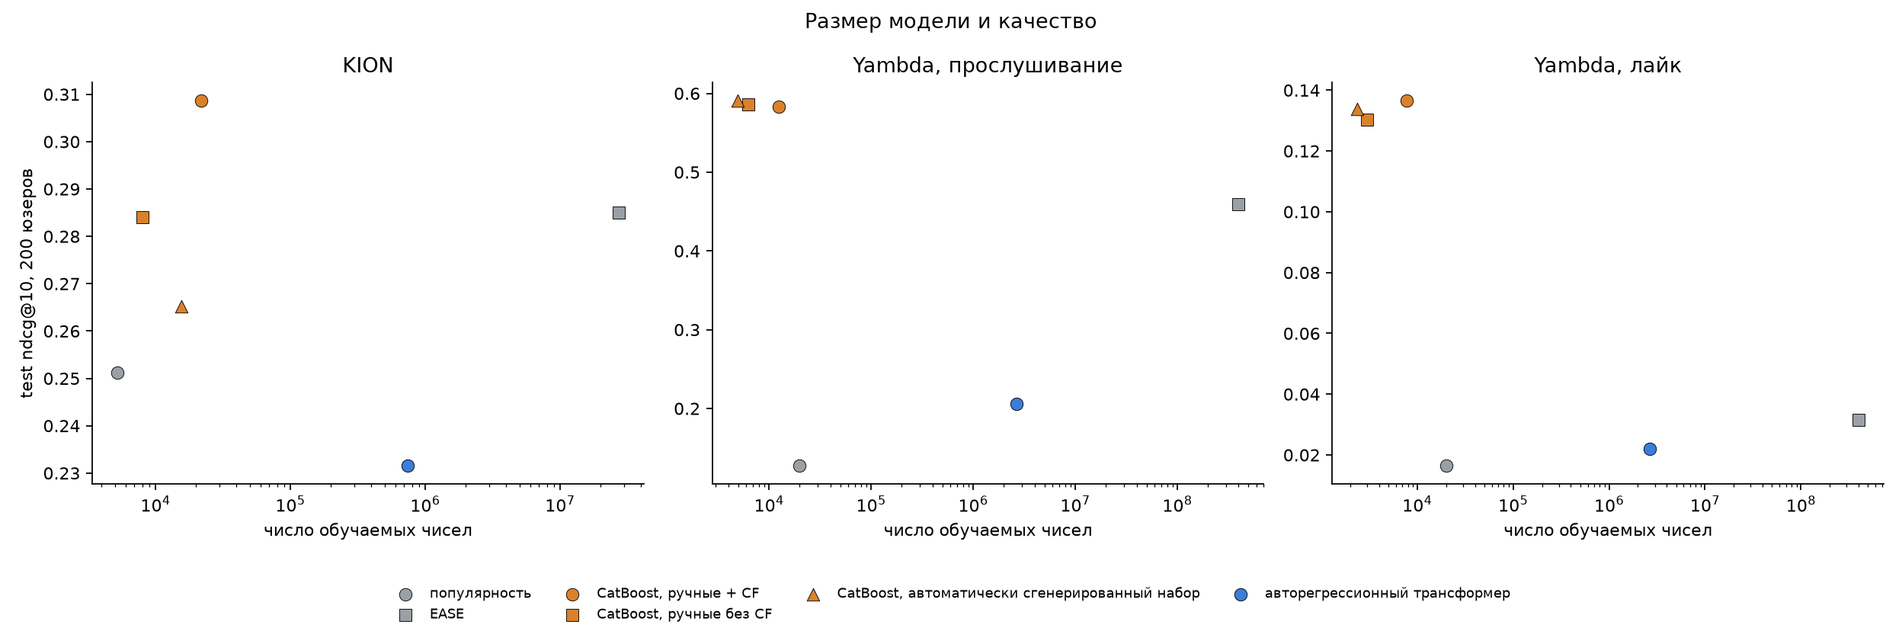
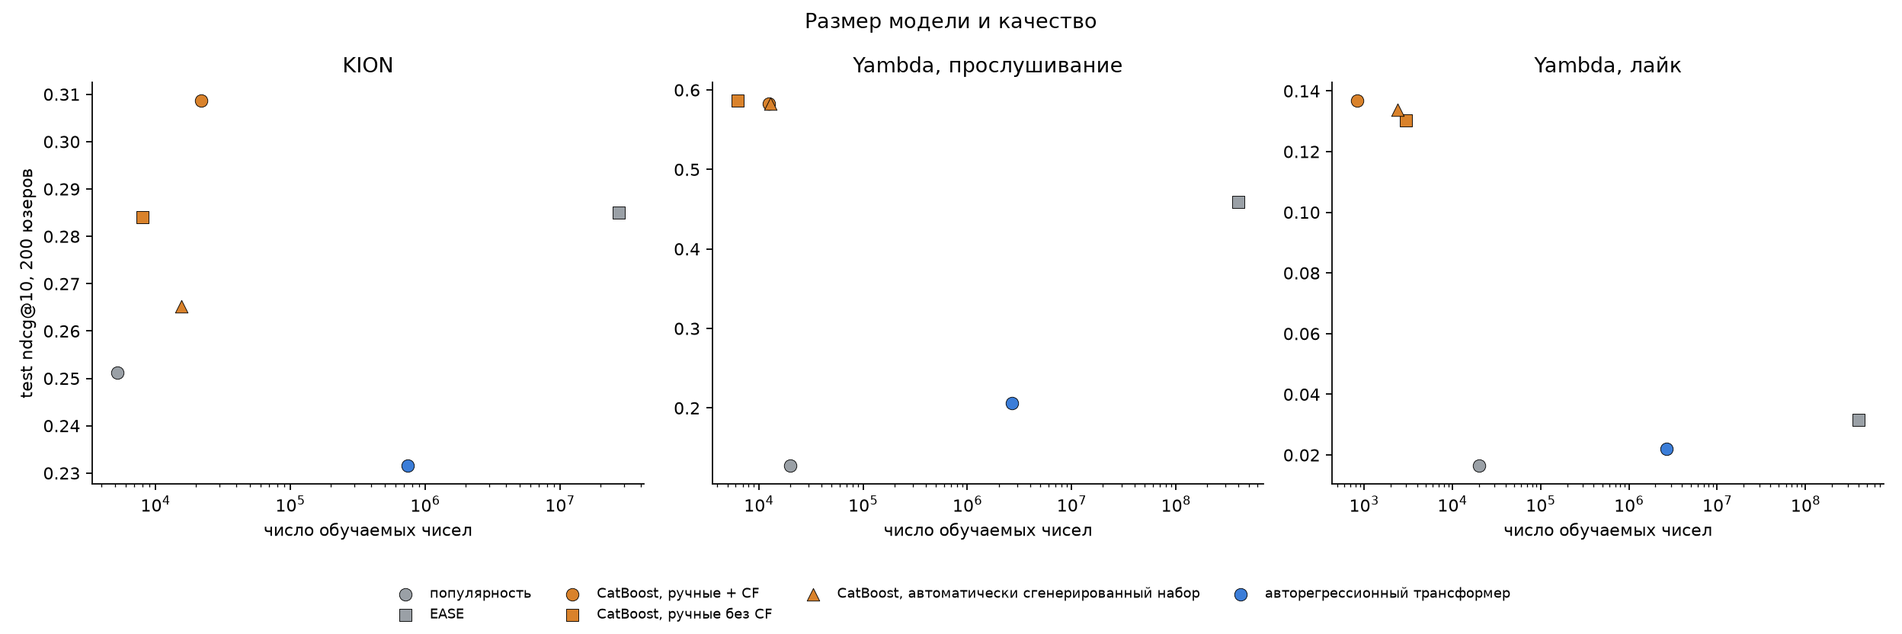
Report: results and conclusions in the author's voice, Yambda trees in the new schema

diff --git a/report.md b/report.md
@@ -21,12 +21,12 @@
 
 Третий бейзлайн – CatBoost на ручных признаках, стандартная сильная модель для табличных данных. Добавил базовые ручные признаки – атрибуты пользователя и фильма плюс счётчики за 7 дней, 30 дней и всё время: число событий и досмотров, средний процент досмотра, число разных товаров или пользователей и давность последнего события. Эти счётчики я считаю отдельно для пользователя, для фильма по всем пользователям и для пары. К ним я добавил скоры EASE и косинусного kNN по товарам, и попробовал именно ранжирующий лосс YetiRank.
 
-Чтобы понять, откуда у бустинга качество, я обучил его ещё в двух вариантах. В первом нет скоров EASE и kNN. Во втором остались только признаки из истории самого пользователя, то есть без счётчиков фильма по всем пользователям. Второй вариант ближе всего к тому, что видит нейросеть над историей одного пользователя, и сравнение с ним показывает, сколько дают данные других пользователей.
+Чтобы понять, откуда у бустинга качество, я обучил его ещё в двух вариантах. В первом нет скоров EASE и kNN. Во втором вместо ручных признаков стоит автоматически сгенерированный набор: перебор агрегатов «сущность × событие × окно × агрегат», 489 колонок. По нему видно, можно ли заменить ручную работу перебором.
 
-Потом я попробовал нейросети над историей пользователя: нелинейный автоэнкодер над вектором просмотренных фильмов, среднее по событиям, LSTM и трансформер. Голова у всех одна: сеть умножает вектор пользователя на эмбеддинг фильма и прибавляет обучаемое число на каждый фильм. Все четыре сети проиграли бустингу (рис. 1). LSTM и трансформер не лучше простого среднего по событиям, а трансформер ещё и переобучается: лосс на обучении у него падает дальше, а ndcg@10 на валидации после нескольких эпох падает (рис. 2, 3). Отсюда вопрос, почему так вышло.
+Потом я попробовал нейросети. Первая – авторегрессионный трансформер над последними событиями пользователя, как SASRec: кроме метки окна он учится предсказывать следующий фильм в истории. Скор у него – вектор пользователя, умноженный на эмбеддинг фильма, плюс обучаемое число на каждый фильм. Вторая – TabM [Gorishniy et al., 2025](https://arxiv.org/abs/2410.24210), ансамбль MLP для таблиц, на тех же строках и признаках, что и бустинг. Трансформер проиграл даже популярности, а на валидации он лучше всего на второй эпохе и дальше переобучается (рис. 1, 2). Отсюда вопрос, почему так вышло.
 ## Почему глубокие модели проигрывают ручным признакам
 ### Нужных данных нет в строке
-Первую часть ответа дал вариант бустинга только с историей самого пользователя: он упал ниже популярности (рис. 1). Перемешивание колонок показывает то же самое: почти вся польза сидит в счётчиках фильма по всем пользователям, особенно за последнюю неделю (рис. 4).
+Первую часть ответа дал трансформер, который видит только историю самого пользователя: он упал ниже популярности (рис. 1). Перемешивание колонок бустинга показывает то же самое: почти вся польза сидит в счётчиках фильма по всем пользователям, особенно за последнюю неделю (рис. 4).
 
 По итогу первая причина в том, что нужных данных нет в строке. «Сколько раз пользователь покупал фрукты за 7 дней до момента предсказания» – это свойство не строки, а всей таблицы до этого момента. Счётчик точно считает все события пользователя, включая те, что как строки в обучающую выборку не попадают. Если нейросеть тоже видит историю, как последовательные модели [Zhai et al., 2024](https://arxiv.org/abs/2402.17152), такие вещи она действительно учит. Но популярность товара за последний час – это сумма по всем пользователям, и из истории одного пользователя её не получить никакой моделью.
 
@@ -47,7 +47,7 @@
 
 Агрегаты пулинг даёт готовыми, умножение даёт кросс-слой или гейт, а ступеньки среди стандартных элементов архитектуры нет, и градиентом она учится хуже всего. Поэтому step-функцию можно перенести из параметра во вход. В [Gorishniy et al., 2022](https://arxiv.org/abs/2203.05556) для этого использовали бакетирование: дерево находит границы корзин, а сеть учит вес при каждой корзине, и производная по этому весу никогда не бывает плоской. Таким образом предобработкой данных, автоматической или даже выученной, можно заставить нейросеть работать с такими данными. Если порог всё же нужен внутри сети, вперёд можно считать честную ступеньку, а назад делать вид, что её производная равна единице [Bengio et al., 2013](https://arxiv.org/abs/1308.3432).
 ### Почему не перебрать агрегаты
-Тогда можно подумать, что пространство действий в задаче создания агрегаций не такое уж и большое. У нас есть дискретные, недифференцируемые операции, которые мы можем просто создавать вручную, и модели, нечувствительные к мусорным признакам и к мультиколлинеарности, чтобы всё это моделировать. Такие попытки тоже были: перебор агрегатов по связанным таблицам [Kanter and Veeramachaneni, 2015](https://doi.org/10.1109/DSAA.2015.7344858), отбор признаков по приросту на остатках бустинга [Zhang et al., 2023](https://arxiv.org/abs/2211.12507), а недавно такие же агрегаты стали подавать в табличные модели без обучения [Zhang et al., 2026](https://arxiv.org/abs/2602.18495), [Hayler et al., 2026](https://arxiv.org/abs/2608.16319). На данных мне данных перебор по комбинациям «сущность × событие × окно × агрегат» с таким отбором оставил лишь несколько признаков из нескольких сотен кандидатов, и CatBoost с ними на валидации идёт лишь немного выше, чем без них (рис. 2).
+Тогда можно подумать, что пространство действий в задаче создания агрегаций не такое уж и большое. У нас есть дискретные, недифференцируемые операции, которые мы можем просто создавать вручную, и модели, нечувствительные к мусорным признакам и к мультиколлинеарности, чтобы всё это моделировать. Такие попытки тоже были: перебор агрегатов по связанным таблицам [Kanter and Veeramachaneni, 2015](https://doi.org/10.1109/DSAA.2015.7344858), отбор признаков по приросту на остатках бустинга [Zhang et al., 2023](https://arxiv.org/abs/2211.12507), а недавно такие же агрегаты стали подавать в табличные модели без обучения [Zhang et al., 2026](https://arxiv.org/abs/2602.18495), [Hayler et al., 2026](https://arxiv.org/abs/2608.16319). Я сделал такой перебор по комбинациям «сущность × событие × окно × агрегат», он дал 489 признаков. CatBoost на них на KION хуже, чем на 71 ручном признаке, а на Yambda такой же (рис. 1, 5, 6).
 
 Но моделей, которые нечувствительны одновременно и к мусорным признакам, и к мультиколлинеарности, нет. Тем более если они нечувствительны к мусорным признакам, то это не глубокие модели, значит, они не могут учить распределения, которые нам нужны.
 
@@ -85,7 +85,7 @@
 ## Предобучение на синтетике
 И самое главное, модели можно предобучать на синтетических данных, чтобы научить их работать с композитными задачами, где нужно неявно учить разные распределения и выражать разные операции. Action space всех операций не такой уж и большой, поэтому табличные значения можно создавать синтетически не очень сложными методами. Предобученные так модели получают нужные прайоры для дообучения под конкретную задачу или для работы с любыми табличными данными. На этом были построены TabPFN [Hollmann et al., 2025](https://doi.org/10.1038/s41586-024-08328-6), TabICL [Qu et al., 2025](https://arxiv.org/abs/2502.05564) и, для реляционных баз, PluRel [Kothapalli et al., 2026](https://arxiv.org/abs/2602.04029) и RDB-PFN [Wang et al., 2026](https://arxiv.org/abs/2603.03805). Я беру веса TabICL, которые авторы предобучили на синтетических таблицах.
 ## Результаты
-Все модели я сравниваю на одних и тех же 200 тестовых пользователях и 300 кандидатах для каждого из них. На этих 200 пользователях считается и TabICL, так что разница между моделями не зависит от выборки. Ниже ndcg@10 везде означает именно эту метрику.
+Все модели я сравнивал на одних и тех же 200 тестовых пользователях, у каждого 300 кандидатов. TabICL считается долго, поэтому тест у него только на них, и остальные модели я считал на тех же, чтобы сравнение было честным.
 
 ### KION
 
@@ -93,25 +93,25 @@
 
 *Рис. 1. Метрики на тесте KION. Оранжевым бустинг, синим нейросети, серым популярность и EASE. В скобках число признаков.*
 
-Лучше всех ранжирует CatBoost на ручных признаках со скорами EASE и kNN (0.309). Без этих скоров он опускается до 0.284, то есть до уровня самого EASE (0.285), так что примерно 0.025 бустинг получает от коллаборативной фильтрации. Авторегрессионный трансформер над историей пользователя набирает 0.232 и проигрывает даже популярности (0.251). Автоматически сгенерированный набор из 489 признаков даёт бустингу 0.265, это хуже, чем 71 ручной признак, так что 400 лишних колонок бустингу мешают.
+На KION лучше всех бустинг со скорами EASE и kNN, 0.309 по ndcg@10. Без этих скоров он падает до 0.284, ровно до уровня самого EASE, то есть около 0.025 ему даёт коллаборативная фильтрация. Автоматически сгенерированный набор из 489 признаков дал 0.265, хуже ручного. Трансформер над историей набрал 0.232 и проиграл даже популярности.
 
 ![Валидация по ходу обучения KION](5_report/figures/kion_val_curves.png)
 
-*Рис. 2. ndcg@10 на валидации по ходу обучения: слева по числу деревьев CatBoost, справа по эпохам нейросетей. Звезда отмечает эпоху, которая идёт на тест.*
+*Рис. 2. ndcg@10 на валидации по ходу обучения: слева по числу деревьев CatBoost, справа по эпохам нейросетей. Звездой отмечена эпоха, которая идёт на тест.*
 
-Бустинг выходит на плато за 100–300 деревьев. Трансформер лучше всего на второй эпохе, после неё валидация падает, и ранняя остановка обрывает его через три эпохи.
+Бустинг выходит на плато за 100–300 деревьев. Трансформер лучше всего на второй эпохе, дальше валидация падает, и через три эпохи ранняя остановка его обрывает.
 
 ![Линейные пробы KION](5_report/figures/kion_probes.png)
 
-*Рис. 3. Линейные пробы: R² ридж-регрессии из скрытого состояния пары в каждый ручной агрегат, на отложенной половине пар.*
+*Рис. 3. Линейные пробы на KION: R² ридж-регрессии из скрытого состояния пары в каждый ручной агрегат на отложенной половине пар.*
 
-Пробы показывают, что именно трансформер посчитал сам. Число досмотров фильма за всё время читается из его состояния с R² 0.69: эту величину сеть выучивает через эмбеддинг и смещение фильма по меткам всех пользователей. Счётчики пользователя читаются хуже (0.4), а число событий пары пользователь–фильм почти не читается (0.03). Доля жанра и страны в истории пользователя, то есть деление одного счётчика на другой, держится около 0.11, разница годов около 0.06.
+Чтобы посмотреть, что трансформер считает сам, я поставил линейные пробы: ридж-регрессию из скрытого состояния пары в каждый ручной агрегат. Число досмотров фильма за всё время читается хорошо, R² 0.69. Его сеть выучивает через эмбеддинг и смещение фильма, которые обучаются на метках всех пользователей. Счётчики пользователя читаются хуже, около 0.4. Число событий пары почти не читается, 0.03, хотя это просто количество одного фильма в истории пользователя. Доли жанра и страны в истории, то есть деление одного счётчика на другой, держатся около 0.11.
 
 ![Важность блоков признаков KION](5_report/figures/kion_importance.png)
 
 *Рис. 4. Просадка ndcg@10 на валидации, если перемешать одну колонку, просуммированная по блокам признаков. Модель CatBoost на ручных признаках без скоров EASE и kNN.*
 
-Перемешивание колонок подтверждает раздел «Нужных данных нет в строке». Счётчики фильма по всем пользователям дают 0.228 просадки, атрибуты 0.025, а история пользователя и пара пользователь–фильм по 0.008.
+Если перемешивать колонки бустинга, счётчики фильма по всем пользователям дают 0.228 просадки, атрибуты 0.025, история пользователя и пара по 0.008. Больше всего из них дают досмотры и события фильма за последнюю неделю.
 
 ### Yambda
 
@@ -123,7 +123,7 @@
 
 *Рис. 6. Метрики на тесте Yambda, таргет лайк.*
 
-На Yambda разрыв ещё больше. На прослушиваниях все три варианта бустинга получают 0.58–0.59, EASE 0.46, трансформер 0.21, популярность 0.13. На лайках позитивов в 12 раз меньше, бустинг получает 0.13–0.14, а EASE, трансформер и популярность от 0.02 до 0.03. Автоматически сгенерированный набор здесь не хуже ручного, но и не лучше.
+На Yambda разрыв ещё больше. На прослушиваниях все три варианта бустинга дают 0.58–0.59, EASE 0.46, трансформер 0.21, популярность 0.13. Лайков в 12 раз меньше, чем прослушиваний, и там бустинг даёт 0.13–0.14, а EASE, трансформер и популярность от 0.02 до 0.03. Автоматически сгенерированный набор здесь работает так же, как ручной.
 
 ![Важность блоков признаков Yambda, прослушивание](5_report/figures/yambda_listen_importance.png)
 
@@ -133,7 +133,7 @@
 
 *Рис. 8. Важность блоков признаков на Yambda, лайк.*
 
-Важность блоков на Yambda устроена иначе, чем на KION. На прослушиваниях главный блок это пара пользователь–трек (0.135): люди переслушивают одни и те же треки, и счётчик прошлых прослушиваний этой пары предсказывает следующее. На лайках главный блок это история пользователя (0.112). То есть здесь нужные данные лежат в истории самого пользователя, которую трансформер видит целиком, последние 512 событий.
+А вот важность признаков на Yambda совсем другая. На прослушиваниях больше всего даёт пара пользователь–трек, 0.133: люди переслушивают одни и те же треки, и счётчик прошлых прослушиваний пары предсказывает следующее. На лайках больше всего даёт история пользователя, 0.112. То есть здесь всё нужное лежит в истории самого пользователя, а трансформер видит из неё последние 512 событий.
 
 ![Валидация по ходу обучения Yambda, прослушивание](5_report/figures/yambda_listen_val_curves.png)
 
@@ -143,7 +143,7 @@
 
 *Рис. 10. Линейные пробы на Yambda, прослушивание.*
 
-Тем не менее трансформер проигрывает бустингу почти в три раза. Пробы показывают причину: число прослушиваний пары пользователь–трек читается из состояния трансформера с R² 0.04, хотя все эти прослушивания стоят у него на входе. Это прямо то, что описано в разделе «Выразительность»: softmax-внимание выдаёт взвешенное среднее, и пять прослушиваний одного трека дают тот же выход, что одно. Нужно оговорить, что на прослушиваниях трансформер не дошёл до плато: валидация росла до последней, тридцатой эпохи (рис. 9). Часть разрыва поэтому даёт недообучение. Но чтобы закрыть разрыв 0.21 против 0.58 одним обучением, кривая должна была бы расти ещё долго с той же скоростью.
+И всё равно трансформер проигрывает бустингу почти в три раза. По пробам число прослушиваний пары читается из его состояния с R² 0.04, хотя все эти прослушивания стоят у него на входе. Правда, на прослушиваниях трансформер не дошёл до плато, валидация росла до последней, тридцатой эпохи (рис. 9). Но к концу она прибавляла меньше 0.005 за эпоху, и чтобы дойти до 0.58, ему понадобилось бы ещё больше 70 эпох.
 
 ### Размер моделей
 
@@ -151,23 +151,15 @@
 
 *Рис. 11. ndcg@10 на тесте против числа обучаемых чисел. У CatBoost это число деревьев, умноженное на 64 листа и 6 порогов, у EASE матрица «товар на товар», у популярности одно число на товар.*
 
-Качество не растёт с размером модели. CatBoost хранит от 2 до 22 тысяч чисел и лучше всех на всех трёх задачах. У трансформера от 0.7 до 2.7 миллиона параметров, у EASE от 27 до 400 миллионов. Значит, глубокой модели не хватает не ёмкости, а нужных входов и операций.
-
-### Что подтвердили эксперименты
-Обе причины из раздела «Почему глубокие модели проигрывают ручным признакам» видны в данных, и на двух датасетах работают разные.
-
-На KION работает первая причина, нужных данных нет в строке. Почти вся польза бустинга сидит в счётчиках фильма по всем пользователям (рис. 4). Трансформер достаёт из них только популярность фильма, потому что её выучивает смещение фильма по меткам всех пользователей (рис. 3). Остальных агрегатов по другим пользователям в его входе нет.
-
-На Yambda работает вторая причина, выразительность. Данные лежат в истории пользователя, и трансформер их видит, но счётчик повторов пары он из них не собирает (рис. 10). Поэтому он проигрывает бустингу, у которого этот счётчик готовым стоит на входе (рис. 7). Деление тоже не выучилось: доли жанра, страны, артиста и альбома не читаются из состояния ни на одном датасете.
-
-Перебор агрегатов, которым можно было бы закрыть обе дыры, на KION ухудшил бустинг, а на Yambda ничего не добавил (рис. 1, 5, 6). Поэтому решение должно давать модели строки других пользователей и количество готовыми в архитектуре. Именно это делают контекст из 65 строк и свёртка `SiLU(·/√d)/n` в TabICL.
-
+Я посчитал, сколько обучаемых чисел у каждой модели. У CatBoost от 2 до 22 тысяч, у трансформера от 0.7 до 2.7 миллиона параметров, у EASE матрица «товар на товар» на 27–400 миллионов. Самая маленькая модель лучше всех на всех трёх задачах, так что дело не в размере.
 ## Итог
-Ручные признаки выигрывают у глубоких моделей по двум причинам. 
+Ручные признаки выигрывают у глубоких моделей по двум причинам, и каждый датасет показывает свою.
 
-Первая – в строке и в истории пользователя нет нужных данных, и на KION это видно напрямую: бустинг без статистики по другим пользователям проигрывает даже популярности. 
+Первая – в строке и в истории пользователя нет нужных данных. На KION это видно напрямую: почти вся польза бустинга сидит в счётчиках фильма по всем пользователям, а трансформер над историей проигрывает даже популярности. Из статистики других пользователей он достаёт только популярность фильма, и то через смещение фильма, которое учится на метках всех пользователей.
 
-Вторая – выразительность: пороги, количество, деление и длинные цепочки операций градиентный спуск находит плохо. Поэтому решение должно подавать глобальную статистику отдельным входом, встраивать трудные операции в архитектуру готовыми, а пороги переносить во вход корзинами.
+Вторая – выразительность: пороги, количество, деление и длинные цепочки операций градиентный спуск находит плохо. На Yambda данные лежат в истории пользователя, трансформер их видит, но число повторов пары из них не собирает: softmax-внимание даёт среднее, и пять прослушиваний одного трека для него то же, что одно. Доли жанра, страны, артиста и альбома, то есть деление, не читаются из его состояния ни на одном датасете. И дело не в размере, у бустинга обучаемых чисел в сотни раз меньше.
+
+Перебор агрегатов эти дыры не закрывает: на KION он ухудшил бустинг, на Yambda ничего не добавил. Поэтому решение должно подавать глобальную статистику отдельным входом, встраивать трудные операции в архитектуру готовыми, а пороги переносить во вход корзинами. В TabICL это строки других пользователей в контексте и свёртка `SiLU(·/√d)/n`, которая сохраняет количество.
 
 Всё остальное, то есть распределения каждого признака, связи между признаками и между событиями, можно учить, и прайоры для этого можно получить предобучением на синтетике.
 
